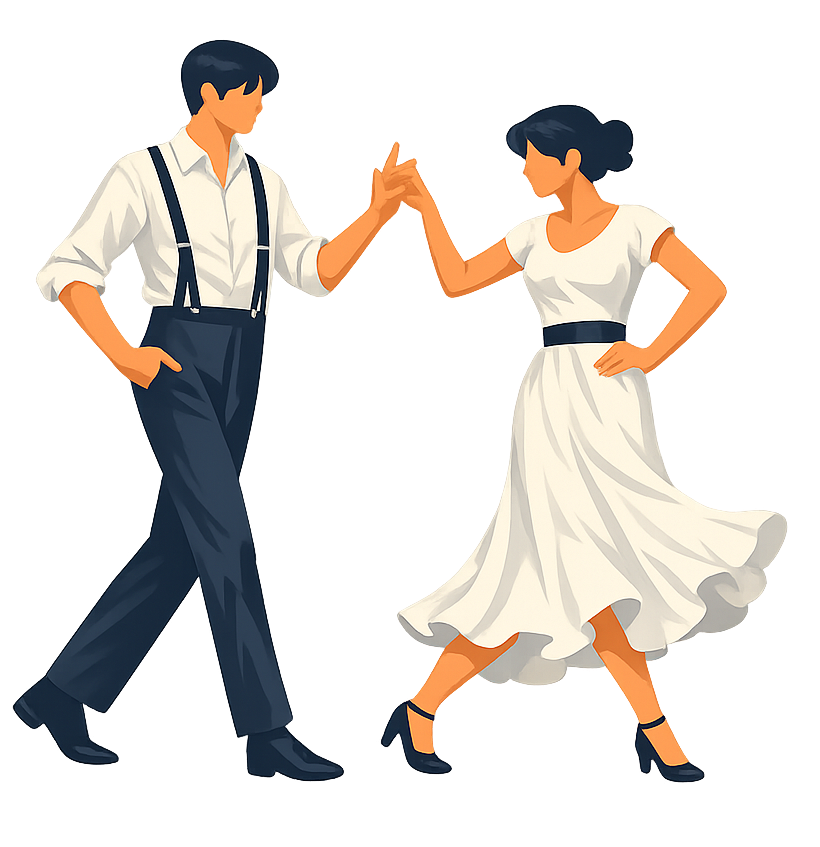
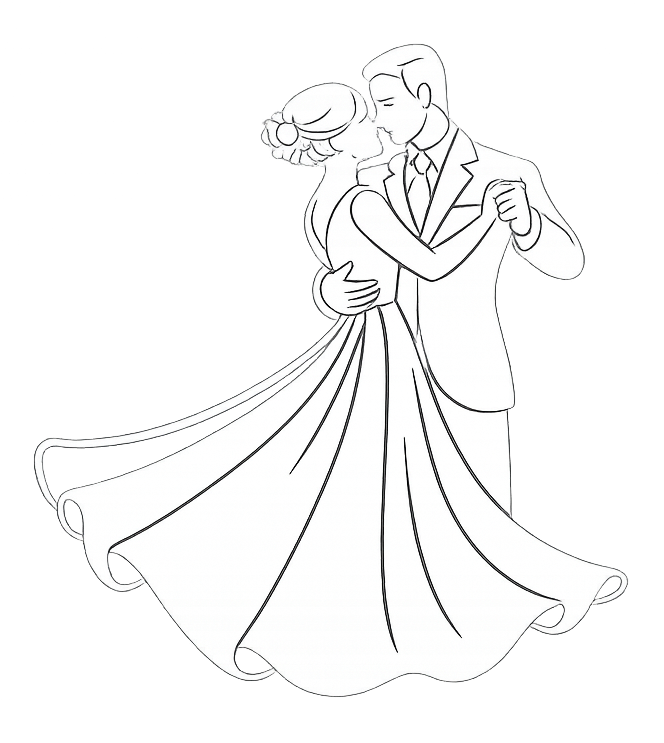
cuatro

diff --git a/styles.css b/styles.css
@@ -427,6 +427,8 @@ body {
   flex-direction: column;
   align-items: center;
   gap: 5px;
+  justify-content: center;
+  text-align: center;
   min-width: 65px;
   padding: clamp(10px, 1.5vw, 14px);
   border-radius: var(--radius-card);
@@ -459,12 +461,13 @@ body {
 }
 
 .countdown-label {
-  font-family: var(--font-serif);
+  font-family: arial,sans-serif;
   font-size: clamp(8px, 1.2vw, 10px);
   letter-spacing: 0.12em;
   text-transform: uppercase;
-  color: var(--soft);
+  color: #7A8450;
   opacity: 0.95;
+  font-weight: 700;
 }
 
 @media (hover: hover) {
@@ -579,7 +582,7 @@ body {
 /* GENERAL */
 
 .story-lettering {
-  transform: translateX(-50%) translateY(60px);
+  transform: translateX(-50%) translateY(70px);
 }
 
 .story-countdown {
@@ -587,7 +590,7 @@ body {
 }
 
 .story-text {
-  transform: translateY(0px);
+  transform: translateY(25px);
 }
 
 .countdown-grid {
@@ -659,10 +662,10 @@ body {
   .details-img-top {
     width: clamp(120px, 20vw, 180px);
     height: auto;
-    margin-top: clamp(20px, 6vw, 39px);
+    margin-top: clamp(40px, 8vw, 60px);
   }
   .details-img {
-    width: clamp(60px, 15vw, 100px);
+    width: clamp(80px, 15vw, 110px);
     margin-top: clamp(20px, 6vw, 39px);
   }
 
@@ -673,11 +676,10 @@ body {
 
   .details-divider {
     width: 100%; /* 🔥 ocupa todo el ancho */
-    max-width: 700px; /* 🔥 límite en PC (editable) */
-    margin-top: clamp(35px, 6vw, 39px);
+    max-width: 500px; /* 🔥 límite en PC (editable) */
+    margin-top: clamp(35px, 7vw, 39px);
     display: block;
     margin: 0auto;
-
     height: auto; /* 🔥 mantiene proporción */
   }
 
@@ -687,14 +689,14 @@ body {
 
   .details-title {
     font-family: var(--font-script);
-    font-size: clamp(40px, 6vw, 69px);
+    font-size: clamp(42px, 6vw, 70px);
     color: white;
     margin-top: -10px
   }
 
   .details-subtitle {
     font-family: var(--font-script);
-    font-size: clamp(16px, 3vw, 25px);
+    font-size: clamp(20px, 6vw, 30px);
     margin-top: -15px;
     color: white;
     margin-bottom: clamp(12px, 1.5vw, 14px);
@@ -702,20 +704,20 @@ body {
 
   .details-block-title {
     font-family: 'Libre Baskerville', serif;
-    font-size: clamp(8px, 2vw, 18px);
+    font-size: clamp(12px, 2.5vw, 22px);
     font-weight: bold;
     color: white;
   }
 
   .details-time {
     font-family: 'Libre Baskerville', serif;
-    font-size: clamp(8px, 2vw, 15px);
+    font-size: clamp(10px, 2.5vw, 18px);
     color: white;
   }
 
   .details-text {
     font-family: 'Libre Baskerville', serif;
-    font-size: clamp(8px, 2vw, 14px);
+    font-size: clamp(10px, 2.5vw, 18px);
     color: white;
   }
 
@@ -735,7 +737,7 @@ body {
     background: #9aa37a; /* 🔥 3 tonos más claro aprox */
     color: white;
     font-family: 'Libre Baskerville', serif;
-    font-size: clamp(8px, 2vw, 14px);
+    font-size: clamp(10px, 2.5vw, 18px);
     font-weight: bold;
   }
 
@@ -776,4 +778,8 @@ body {
     .details-section {
       gap: 5px;
     }
+    .details-divider {
+    max-width: 260px; /* 🔥 límite en PC (editable) */
+    
+  }
   }

diff --git a/index.html b/index.html
@@ -13,7 +13,7 @@
   <!-- FUENTES -->
   <link rel="preconnect" href="https://fonts.googleapis.com">
   <link rel="preconnect" href="https://fonts.gstatic.com" crossorigin>
-  <link href="https://fonts.googleapis.com/css2?family=Playfair+Display:wght@400;600&family=Great+Vibes&family=Libre+Baskerville&family=Cormorant+Garamond&display=swap" rel="stylesheet">
+  <link href="https://fonts.googleapis.com/css2?family=Playfair+Display:wght@400;600&family=Great+Vibes&family=Libre+Baskerville:wght@400;700&family=Cormorant+Garamond&display=swap" rel="stylesheet">
 
   <link rel="stylesheet" href="styles.css">
 </head>